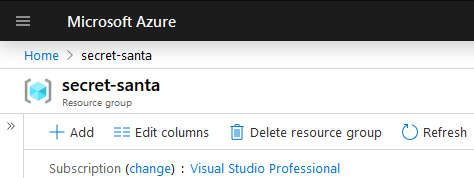
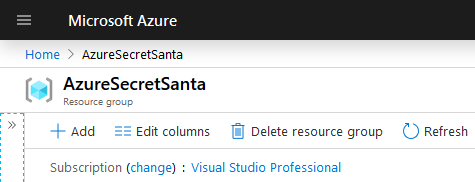
Add function name, url to HTML. Fix spelling.

diff --git a/03_azure_functions/README.md b/03_azure_functions/README.md
@@ -20,7 +20,7 @@ Click **Create**.
 
 ![](screenshots/Add-Function3.PNG?raw=true "Add a Function")
 
-Set a unique name for the function app, i.e. "search-for-a-gift". Choose **.NET Core** as running stack. Click **Review + create** and then click **Create**. You need to wait some time until the resource is created.
+Set a unique name for the function app, i.e. "SecretSantaFunctionApp" with your initials at the end. Choose **.NET Core** as running stack. Click **Review + create** and then click **Create**. You need to wait some time until the resource is created.
 
 ![](screenshots/rg1.PNG?raw=true "Function added")
 
@@ -178,7 +178,7 @@ Once it has been installed, choose the created connection and click **Save**.
 ![](screenshots/Binding8.PNG?raw=true "Binding")
 
 If you click the link to **Advanced editor**, you should JSON configuration of bindings. Yes, go there and change only two things related to the *blob* binding section.
-First, the path from **outcontainer/{rand-guid}** to **christmastree/{rand-guid}** and the direction from **out** to **inout**. Save changes.
+First, the path from **outcontainer/\{rand-guid\}** to **christmastree/\{rand-guid\}** and the direction from **out** to **inout**. Save changes.
 Well the binding is ready, let’s put the last chunks of code.
 
 ## Let's finish it!
@@ -210,7 +210,7 @@ Awesome! I am glad you achieved the goal. :)
 
 ## Rename the function and update Static Website
 
-"HttpTrigger1" is a default name, when can rename it to something more meaningful.
+"HttpTrigger1" is a default name, we can rename it to something more meaningful.
 So, go **App Service Editor**
 
 ![](screenshots/rename1.PNG?raw=true "Rename")
@@ -219,23 +219,29 @@ Right click on "HttpTrigger1" then click "Rename".
 
 ![](screenshots/rename2.PNG?raw=true "Rename")
 
-Rename it to **BlaBlaBla** and hit Enter. Now restart the Azure Function.
+Rename it to **GiveAGift** and hit Enter. Now, restart the Azure Function.
 You can find the restart button in the function overview tab.
 
 ![](screenshots/rename3.PNG?raw=true "Rename")
 
-Good, now refresh the view.
+Good, now refresh the view. You may need to restart again and again. Restarting takes some time under the hood.
 
 ![](screenshots/rename4.PNG?raw=true "Refresh")
 
-Voilà! You can add the function URL to the HTML page you have already created and be happy as it all works like a charm.
+Voilà!
+
+![](screenshots/rename5.PNG?raw=true "Refresh")
+
+You can add the function URL to the HTML page you have already created and be happy as it all works like a charm.
 Copy the URL from the page where your function code is, click *</> Get Function URL* link.
 
 ![](screenshots/Url1.PNG?raw=true "Function URL")
 
 Paste the URL to the index.html page and upload it to the storage.
 
-![](screenshots/Url1.PNG?raw=true "Function URL")
+```cs
+var urlToAzureFunction = 'https://search-for-a-gift.azurewebsites.net/api/GiveAGift?code=xyzabcverylongcode==';
+```
  
 OMG! I totally forgot! You have to enable CORS! You can read abour CORS [here](https://en.wikipedia.org/wiki/Cross-origin_resource_sharing).
 Azure Function and Azure Storage are in different domains. We have to let the website talk to the function.
